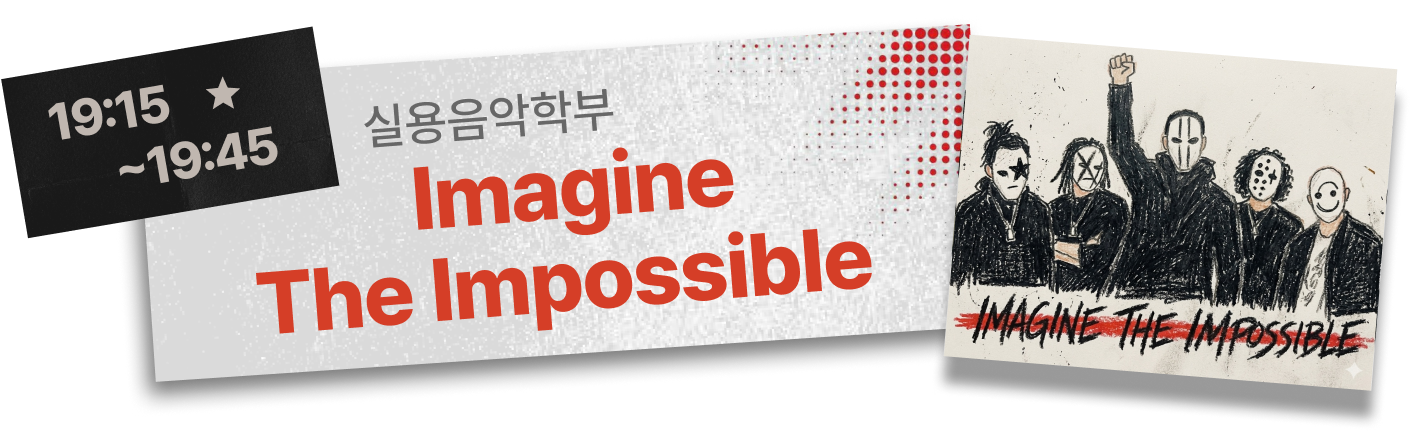
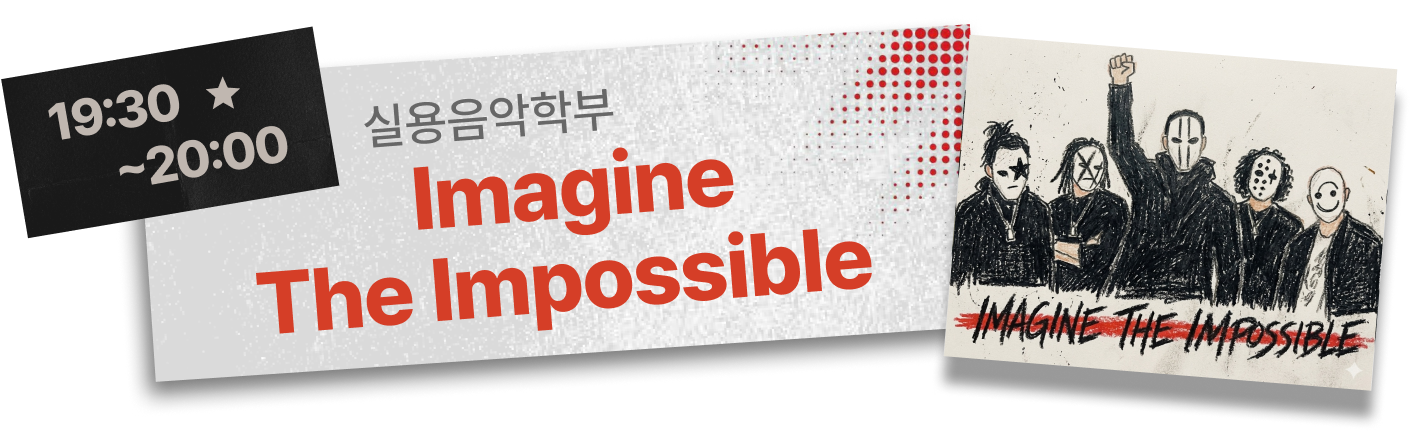
♻ Refactor: 메인페이지 담당 qa 수정 (#184)
* 🎨 Design: 부스 카드 위치 및 데스크톱 비율 수정

* 🎨 Desgin: 타임테이블 및 라인업 시간 수정 및 레이어 제거

Changed region(s): [[0.0936, 0.3009, 0.2183, 0.4213], [0.0624, 0.1806, 0.1247, 0.3009]]

diff --git a/src/constants/timetableData.js b/src/constants/timetableData.js
@@ -102,7 +102,7 @@ export const TIMETABLE_DAY_BANNERS = {
       id: 1,
       artist: 'SDR',
       team: '동아리',
-      time: '16:30 ★ ~ 17:10',
+      time: '16:30 ★ ~ 17:00',
       variant: 1,
       bannerScale: 1.1,
       bannerImageSrc: bannerDay31,
@@ -112,7 +112,7 @@ export const TIMETABLE_DAY_BANNERS = {
       id: 2,
       artist: '티미름',
       team: '실용음악학부',
-      time: '17:10 ★ ~ 17:35',
+      time: '17:00 ★ ~ 17:30',
       variant: 2,
       bannerImageSrc: bannerDay32,
     },
@@ -120,7 +120,7 @@ export const TIMETABLE_DAY_BANNERS = {
       id: 3,
       artist: '그라미',
       team: '동아리',
-      time: '17:35 ★ ~ 18:05',
+      time: '17:30 ★ ~ 18:00',
       variant: 1,
       bannerScale: 1.1,
       bannerImageSrc: bannerDay33,
@@ -130,7 +130,7 @@ export const TIMETABLE_DAY_BANNERS = {
       id: 4,
       artist: '빡빡이 해적단',
       team: '실용음악학부',
-      time: '18:05 ★ ~ 18:30',
+      time: '18:00 ★ ~ 18:30',
       variant: 2,
       bannerScale: 1,
       bannerImageSrc: bannerDay34,
@@ -139,7 +139,7 @@ export const TIMETABLE_DAY_BANNERS = {
       id: 5,
       artist: '야르',
       team: '실용음악학부',
-      time: '18:30 ★ ~ 18:45',
+      time: '18:30 ★ ~ 19:00',
       variant: 1,
       bannerImageSrc: bannerDay35,
       bannerScale: 0.9,
@@ -148,7 +148,7 @@ export const TIMETABLE_DAY_BANNERS = {
       id: 6,
       artist: 'Time Sale',
       team: '실음 x 실무 연합',
-      time: '18:45 ★ ~ 19:15',
+      time: '19:00 ★ ~ 19:30',
       variant: 2,
       bannerImageSrc: bannerDay36,
     },
@@ -156,7 +156,7 @@ export const TIMETABLE_DAY_BANNERS = {
       id: 7,
       artist: ['Imagine', 'The Impossible'],
       team: '실용음악학부',
-      time: '19:15 ★ ~ 19:45',
+      time: '19:30 ★ ~ 20:00',
       variant: 1,
       bannerVariant: 3,
       bannerScale: 1.1,

diff --git a/src/components/main/Booth.jsx b/src/components/main/Booth.jsx
@@ -46,7 +46,7 @@ function BoothImageCard({ image, title }) {
   const titleLabel = Array.isArray(title) ? title.join(' ') : String(title ?? '');
   const imageAlt = titleLabel ? `${titleLabel} 부스 카드` : '부스 카드';
   return (
-    <article className="relative h-[13.25rem] w-full overflow-hidden shadow-[1px_1px_0px_rgba(0,0,0,0.12)]">
+    <article className="relative aspect-[155/212] w-full overflow-hidden shadow-[1px_1px_0px_rgba(0,0,0,0.12)]">
       <img
         src={image}
         alt={imageAlt}
@@ -197,7 +197,7 @@ export default function Booth() {
   return (
     <section
       id="booth"
-      className="relative min-h-[46rem] overflow-hidden bg-[#141414] px-[1.5rem] pb-[9.0rem] pt-[2.5rem]"
+      className="relative min-h-[46rem] overflow-hidden bg-black px-[1.5rem] pb-[9.0rem] pt-[2.5rem]"
     >
       <style>{`
         @keyframes booth-card-spread-opacity {
@@ -221,7 +221,19 @@ export default function Booth() {
         }
       `}</style>
 
-      <div className="pointer-events-none absolute left-1/2 top-[-29rem] z-0 flex w-[28.125rem] max-w-none -translate-x-1/2 flex-col">
+      <div
+        aria-hidden="true"
+        className="pointer-events-none absolute inset-0 z-0"
+        style={{
+          backgroundImage:
+            'linear-gradient(180deg, rgba(0,0,0,0.8) 0%, rgba(0,0,0,0) 32%), linear-gradient(180deg, rgba(20,20,20,0.6) 0%, rgba(20,20,20,1) 100%)',
+          backgroundRepeat: 'no-repeat, no-repeat',
+          backgroundPosition: 'center top, center',
+          backgroundSize: 'cover, cover',
+        }}
+      />
+
+      <div className="pointer-events-none absolute left-1/2 top-[-22.1rem] z-[1] flex w-[28.125rem] max-w-none -translate-x-1/2 flex-col">
         <img
           src={FenceBg}
           alt=""

diff --git a/src/components/main/Lineup.jsx b/src/components/main/Lineup.jsx
@@ -295,17 +295,6 @@ export default function Lineup() {
       ref={lineupSectionRef}
       className="relative min-h-[34.1rem] overflow-hidden bg-black px-[3.65625rem] pt-[0rem] [contain:layout_paint]"
     >
-      <div
-        aria-hidden="true"
-        className="pointer-events-none absolute inset-0 z-0"
-        style={{
-          backgroundImage:
-            'linear-gradient(180deg, rgba(0,0,0,0.8) 0%, rgba(0,0,0,0) 32%), linear-gradient(180deg, rgba(20,20,20,0.6) 0%, rgba(20,20,20,1) 100%)',
-          backgroundRepeat: 'no-repeat, no-repeat',
-          backgroundPosition: 'center top, center',
-          backgroundSize: 'cover, cover',
-        }}
-      />
       <img
         src={HorseCard}
         alt=""

diff --git a/src/constants/boothBuildingData.js b/src/constants/boothBuildingData.js
@@ -378,7 +378,7 @@ export const MAIN_BOOTH_CARD_DEPARTMENTS_BY_BUILDING = {
     '영화영상학과',
     '실용음악학부',
   ],
-  cheongun: ['융합대', '일어전공', '스포츠앤테크놀리지학과', '도시공학과', '중어전공'],
+  cheongun: ['융합대', '일어전공', '스포츠앤테크놀리지학과', '중어전공', '도시공학과'],
   daeil: [
     '나노화학생명공학과',
     '전자컴퓨터공학과',

diff --git a/src/constants/lineupDummyData.js b/src/constants/lineupDummyData.js
@@ -14,7 +14,7 @@ export const LINEUP_ITEMS = [
     id: 1,
     artist: '다비치',
     day: 'DAY 2',
-    time: '18:00 ~ 18:30',
+    time: '20:00 ~ 20:30',
     image: DavichiBg,
     imageOffsetX: '-3rem',
     imageOffsetY: '2rem',
